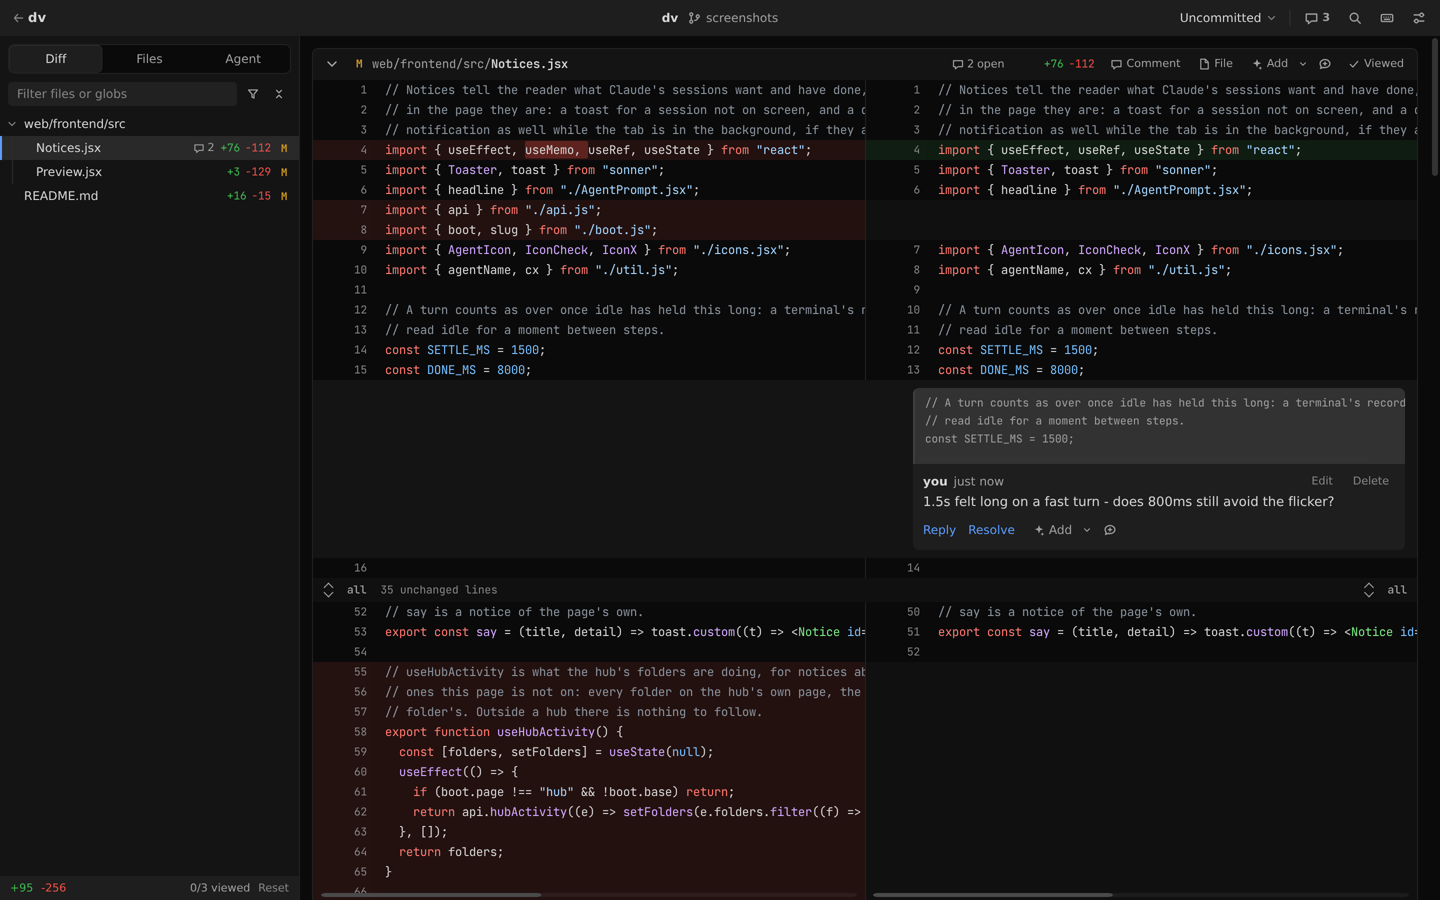
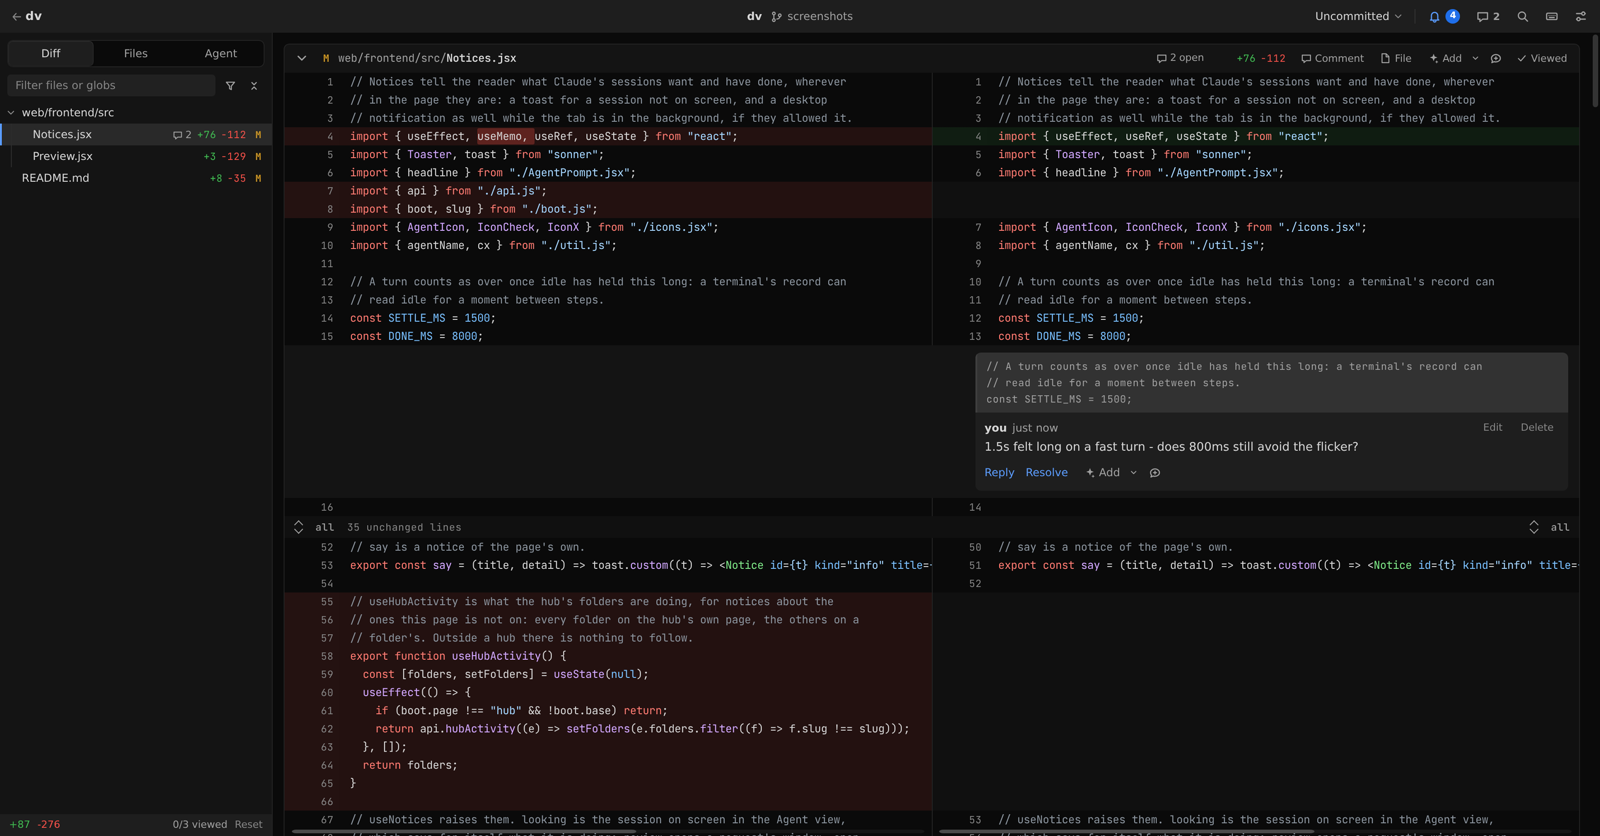
Give a phone the whole screen, and show the views wider
Phones. With the sidebar kept on the right, every view had only half the
screen: the phone's one column is the less particular rule, and the sidebar's
own kept its second column. It is one column either way now, the panels over
it. Under a finger, Reply and New session sit along the foot of the window
rather than beside the selection, where the browser's own copy menu is. The
row under the message box wraps, and a long model name gives way, so picking
the agent as well does not push the rest off the end.

Screenshots. Wider, and of a fuller page: the diff side by side with a comment
on the lines it is about, a session with its edit as a diff and what it ran
folded away, a plan with comments on its steps, and the hub's folders.

diff --git a/web/frontend/src/Agent.jsx b/web/frontend/src/Agent.jsx
@@ -9,7 +9,7 @@ import { MarkdownDocument, previewKind, PreviewToggle, SvgPreview } from "./Prev
 import { Orb } from "./Orb.jsx";
 import { Modal } from "./Overlays.jsx";
 import { AttachTarget } from "./Threads.jsx";
-import { agentName, cx, duration, isTyping, LRM, menuRoom, modKey, relTime, splitPath, useCopy, useDismiss } from "./util.js";
+import { agentName, cx, duration, isTyping, LRM, menuRoom, modKey, relTime, splitPath, TOUCH, useCopy, useDismiss, useMedia } from "./util.js";
 import { readPref, setPref, usePref } from "./prefs.js";
 import {
   AgentIcon, IconArrowUp, IconBack, IconChevron, IconChevronDown, IconChevronUp, IconFile, IconNewSession, IconPlus, IconReply, IconStop, IconTemporary, IconUndo,
@@ -1902,6 +1902,9 @@ function SelectionAsk({ within, active, onReply, onAsk }) {
       window.removeEventListener("resize", onMove);
     };
   }, [active, within]);
+  // Beside the selection with a pointer; under a finger the browser's own copy
+  // menu sits right there, so it goes along the foot of the window instead.
+  const touch = useMedia(TOUCH);
   if (!at) return null;
   const take = (to) => {
     window.getSelection()?.removeAllRanges();
@@ -1909,7 +1912,12 @@ function SelectionAsk({ within, active, onReply, onAsk }) {
     to(at.text, at.code);
   };
   return createPortal(
-    <div ref={bar} className="selection-ask" style={{ top: at.top, left: at.left }} onMouseDown={(e) => e.preventDefault()}>
+    <div
+      ref={bar}
+      className={cx("selection-ask", touch && "at-foot")}
+      style={touch ? undefined : { top: at.top, left: at.left }}
+      onMouseDown={(e) => e.preventDefault()}
+    >
       {onReply && (
         <button className="attach-btn" onClick={() => take(onReply)} title="Quote this in your reply, in this session">
           <IconReply size={13} />

diff --git a/web/frontend/src/styles.css b/web/frontend/src/styles.css
@@ -3167,6 +3167,13 @@ body.resizing * {
   box-shadow: var(--shadow-pop);
 }
 
+/* Clear of the browser's own copy menu, which hovers over the selection. */
+.selection-ask.at-foot {
+  top: auto;
+  left: 50%;
+  bottom: calc(env(safe-area-inset-bottom, 0px) + 88px);
+}
+
 .selection-ask .attach-btn {
   color: var(--fg);
 }
@@ -4558,11 +4565,30 @@ button.ghost.agent-context {
   line-height: 1.5;
 }
 
+/* The row under the box: with the agent to pick as well, a narrow pane runs
+   out of room, so the controls give way - their labels first, then the line. */
 .composer-bar {
   display: flex;
+  flex-wrap: wrap;
   align-items: center;
   gap: 4px;
   margin: 8px 0 0 -6px;
+}
+
+.composer-bar .model-menu {
+  min-width: 0;
+}
+
+.composer-bar .model-menu > button.mini {
+  max-width: 100%;
+  overflow: hidden;
+  text-overflow: ellipsis;
+  white-space: nowrap;
+}
+
+/* Last on the line whatever wraps before it. */
+.composer-bar .spacer {
+  flex: 1 0 auto;
 }
 
 button.ghost.composer-add {
@@ -5617,9 +5643,18 @@ button.ghost.back {
     overflow-y: auto;
   }
 
+  /* One column, the panels over it - the sidebar on the right included, whose
+     own rule is the more particular one and would otherwise keep its column. */
   .main,
-  .main.with-comments {
+  .main.with-comments,
+  .main.side-right,
+  .main.side-right.with-comments {
     grid-template-columns: minmax(0, 1fr);
+  }
+
+  .main.side-right > .sidebar,
+  .main.side-right > .comments-panel {
+    grid-column: 1;
   }
 
   .main > .sidebar,

diff --git a/web/frontend/src/util.js b/web/frontend/src/util.js
@@ -96,6 +96,8 @@ export function useFixedMenu(open, ref, menu) {
 
 // PHONE is the width dv lays itself out for a phone under, as styles.css has it.
 export const PHONE = "(max-width: 760px)";
+// A finger rather than a pointer: the browser has selection keys of its own there.
+export const TOUCH = "(pointer: coarse)";
 
 // useMedia is whether a media query matches, as the window changes.
 export function useMedia(query) {

diff --git a/README.md b/README.md
@@ -42,14 +42,15 @@ Your changes, side by side, with a comment left on the lines it is about.
 ![The Diff view, with a comment on a changed line](docs/diff.png)
 
 Claude Code beside the code: what it ran folded away, the edit it made as a
-diff, and a comment going on that edit to send with your next message. Down
-the side, the sessions of both agents - working, waiting on you, or done.
+diff to read and comment on, and how long each turn took. Down the side, the
+sessions of both agents - working, waiting on you, or done.
 
-![The Agent view, with a comment going on Claude's own edit](docs/agent.png)
+![The Agent view, with Claude's edit shown as a diff](docs/agent.png)
 
-A plan comes up as the document it is, and the answers are the terminal's.
+A plan comes up as the document it is, its steps open to comments that go with
+your answer.
 
-![A plan up for approval, rendered, with its answers](docs/plan.png)
+![A plan up for approval, rendered, with comments on its steps](docs/plan.png)
 
 `dv hub` holds many folders on one address, each saying what it is doing.
 
